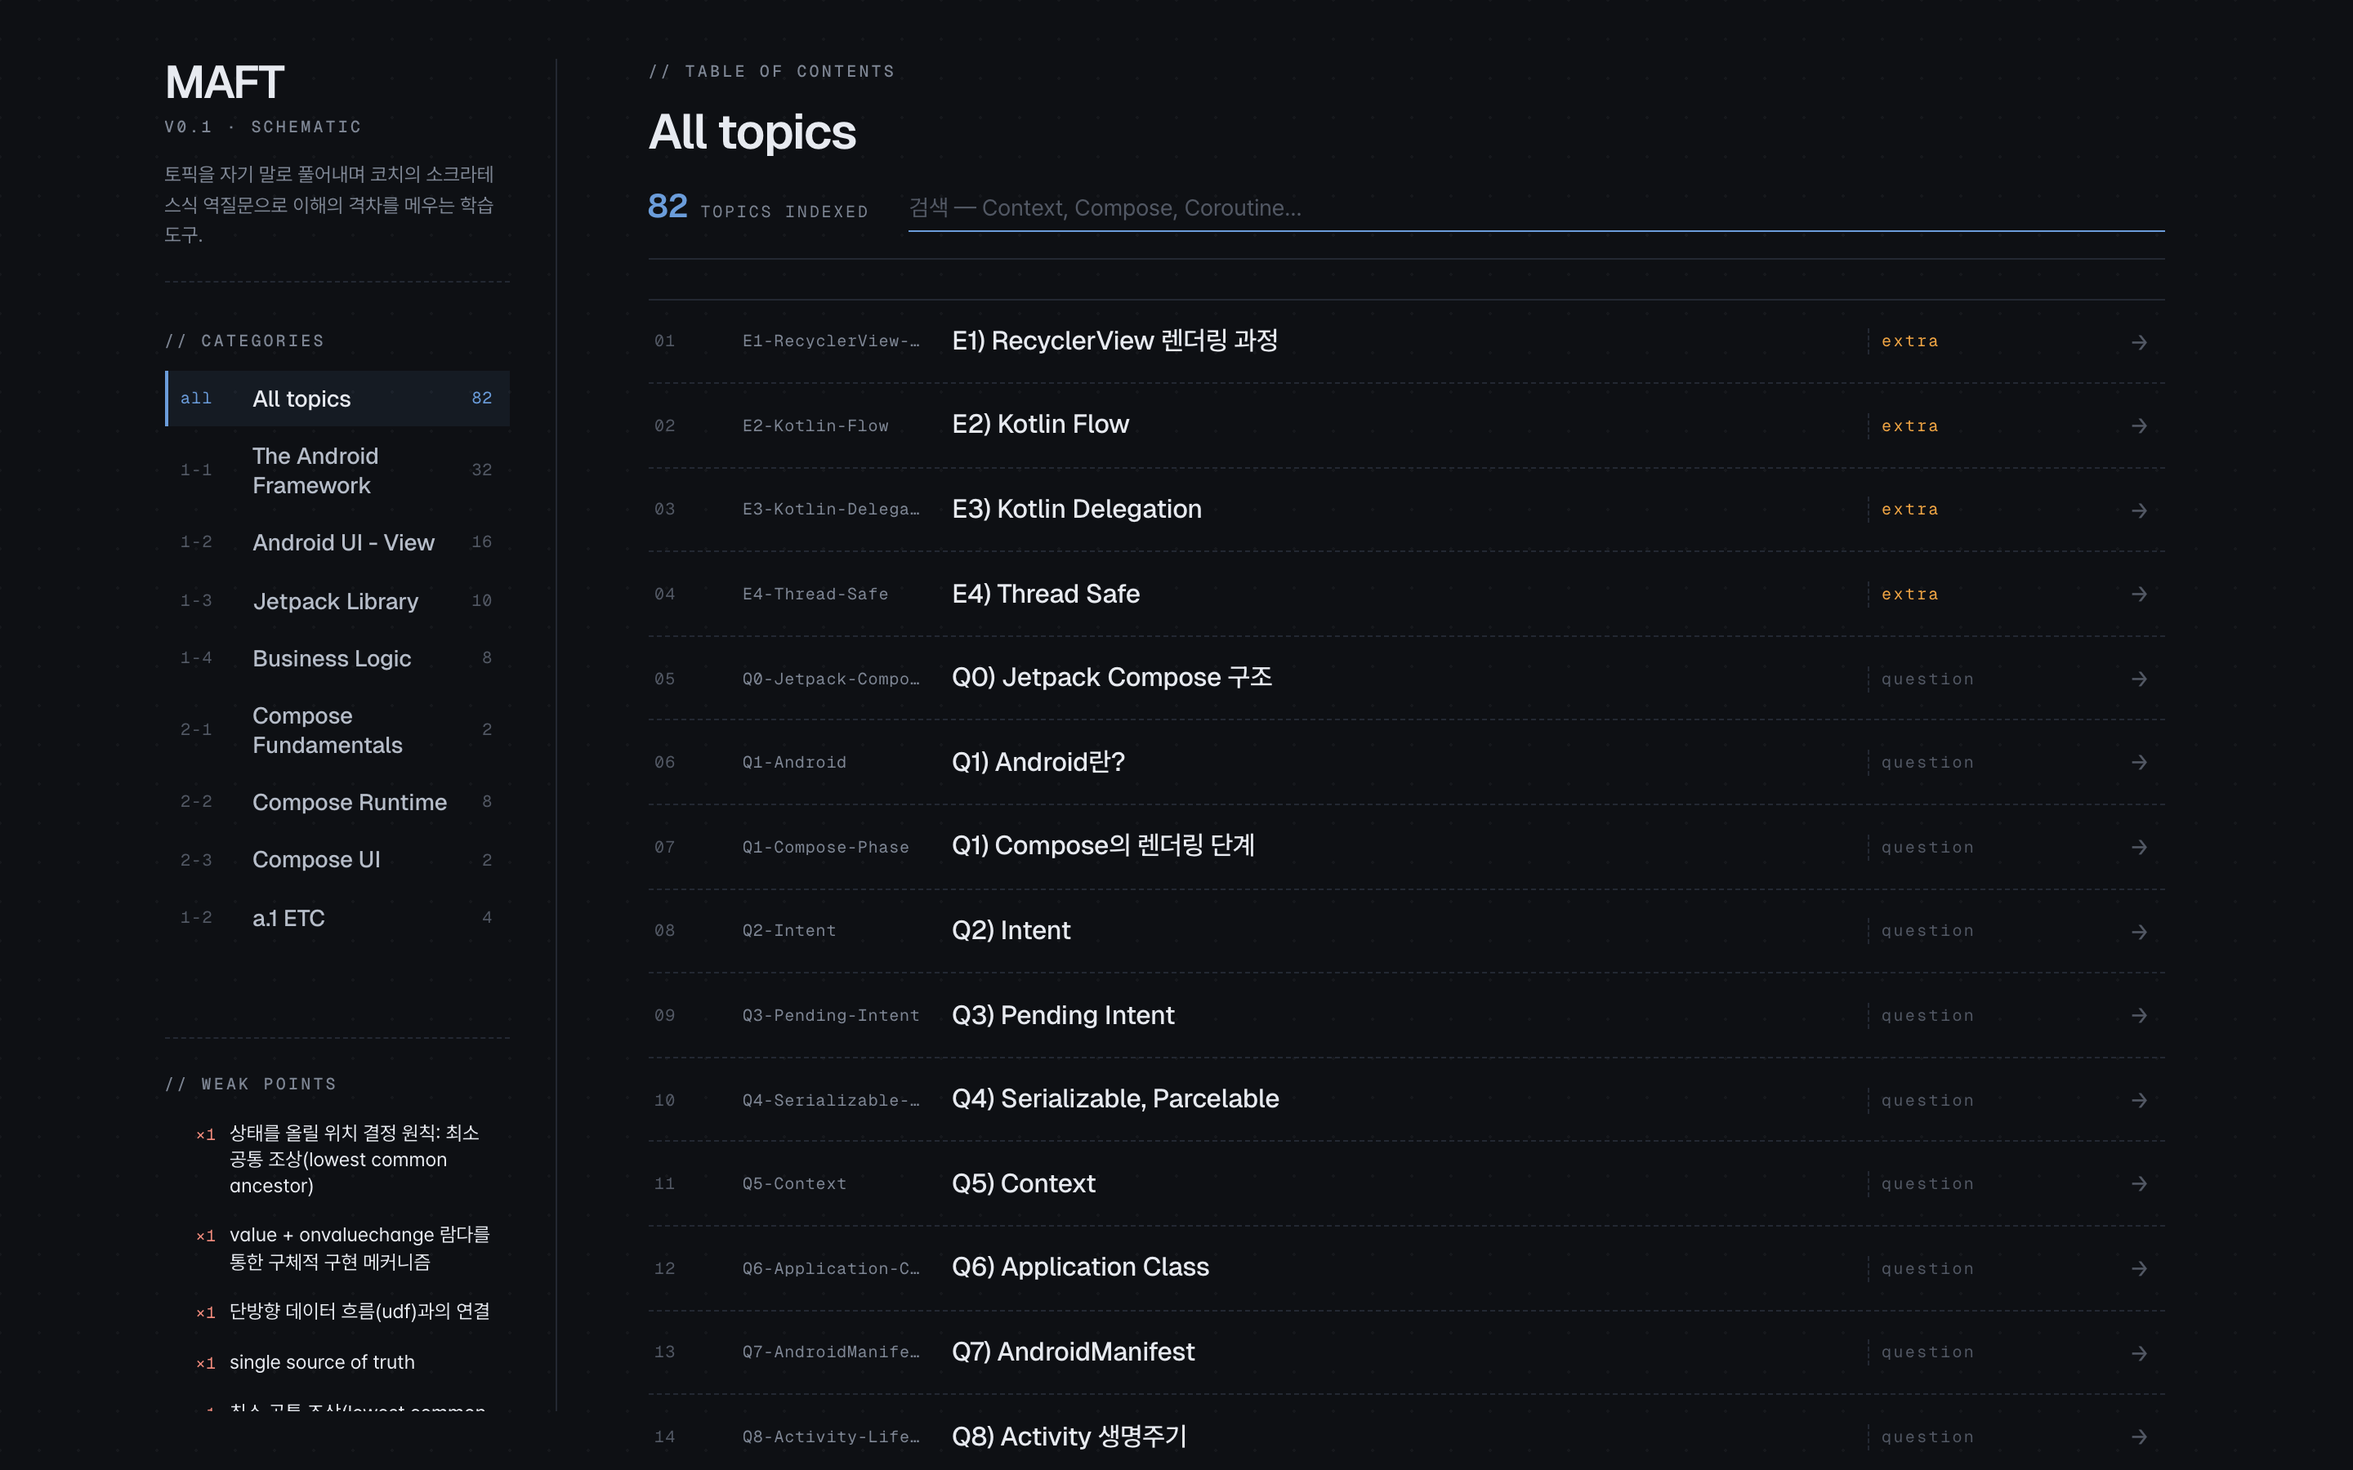
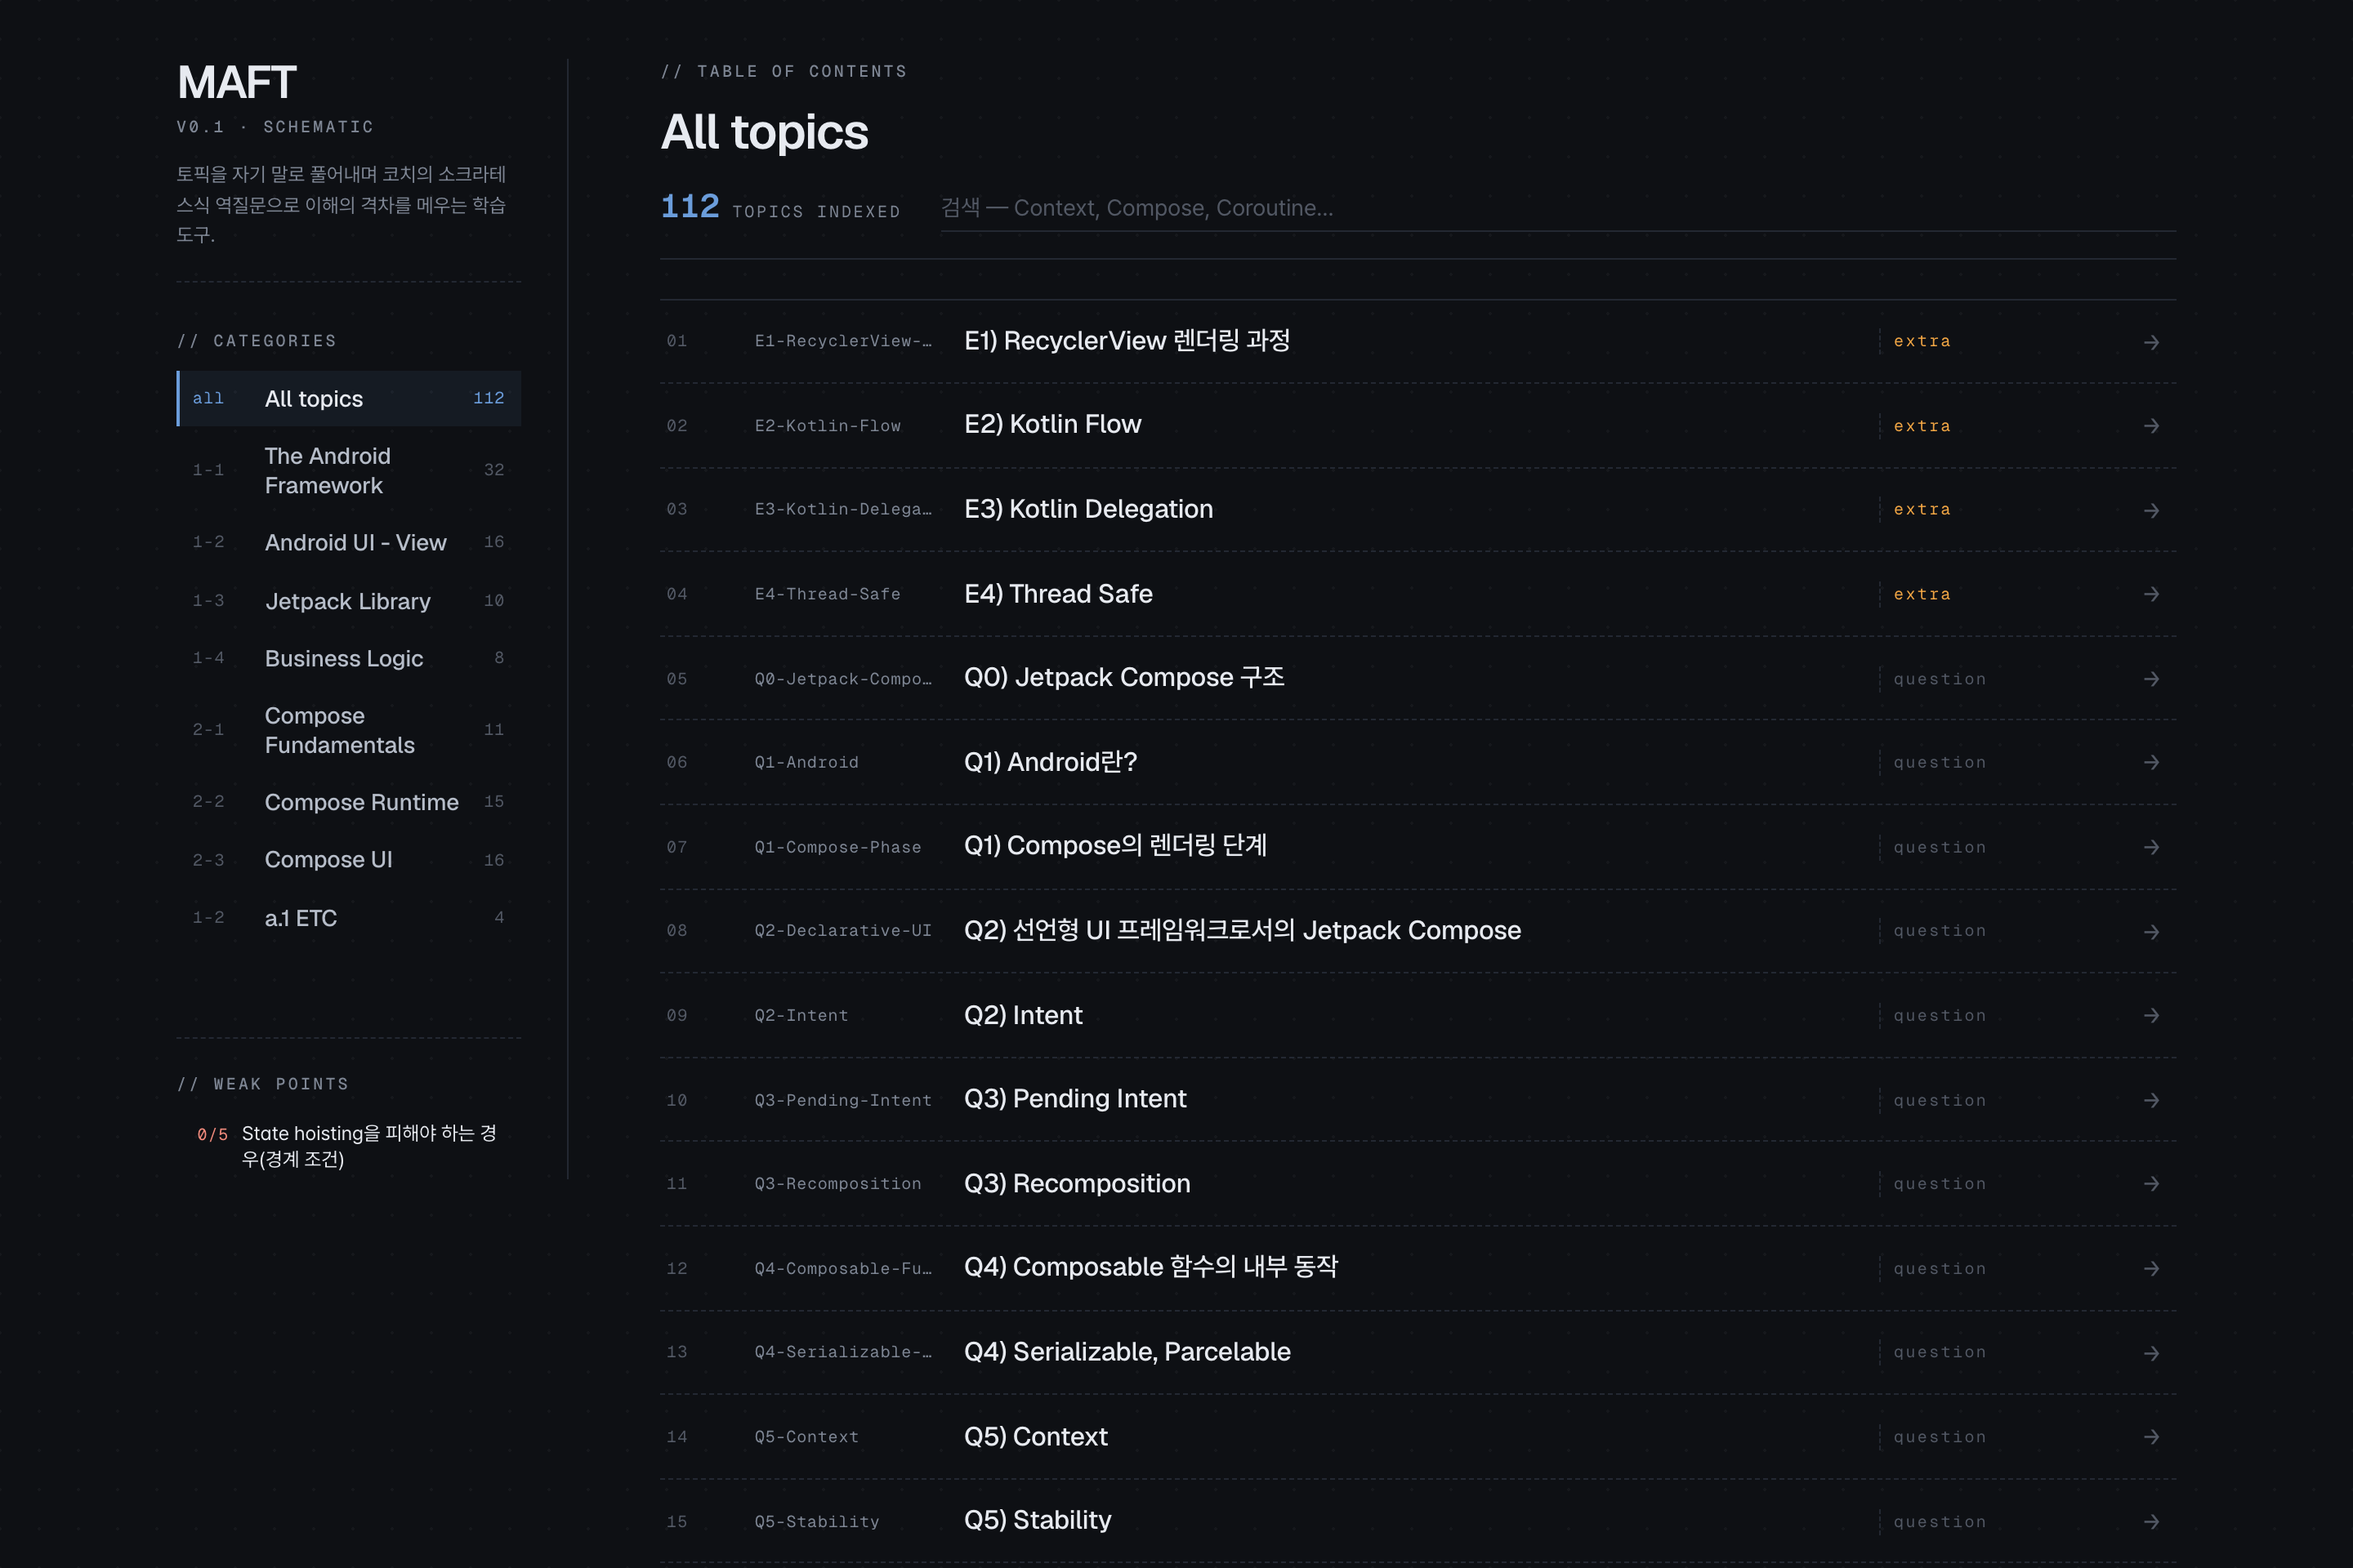
docs(readme): Tier 2 개념별 채점 구조 반영 + 스크린샷 갱신
데이터 모델 erDiagram·학습 사이클·핵심 설계 결정을 개념별 점수 모델에 맞춰 갱신하고, 화면 캡처 3종을 현재 UI(개념 체크리스트)로 교체.

diff --git a/README.md b/README.md
@@ -11,7 +11,7 @@
 **파인만 학습 기법**(자기 설명 → 평가 → 빈틈 역질문 → 재학습) 을 인터랙티브로 구현해 이해도가 일정 수준에 도달할 때까지 가르쳐 주는 학습 도구입니다.
 
 학습자가 토픽을 자기 말로 풀어내면, AI 코치가 토픽 원문을 기준으로 채점하고 학습자가 빠뜨린 핵심 개념을 가리키는 역질문을 돌려줍니다.
-모든 점수와 누적 약점이 SQLite 에 영속화되므로, 어떤 토픽을 얼마나 깊이 이해했는지가 인덱스와 사이드바에 그대로 드러납니다.
+토픽은 핵심 개념 3~5개로 분해되어 개념별 점수와 진척이 SQLite 에 영속화되므로, 어떤 개념을 얼마나 이해했는지가 체크리스트와 인덱스에 그대로 드러납니다.
 
 ## 화면
 
@@ -19,15 +19,15 @@
 
 ![](docs/img/index.png)
 
-학습 세션 — 점수 패널과 Recurring Gaps, 코치의 마스터 안내
+학습 세션 — 개념 체크리스트와 코치의 소크라테스식 역질문
 
 ![](docs/img/session.png)
 
-점수 패널 단독 — turns / latest / average / best + sparkline + recurring gaps
+개념 체크리스트 — 개념별 0~5 점수 · 상태 뱃지 · 통합 점수
 
 ![](docs/img/rubric.png)
 
-> 캡처는 `Q12-State-hoisting.md` 토픽으로 답변 3회를 진행해 mastered 도달까지 만든 시점입니다.
+> 캡처는 `Q12-State-hoisting.md` 토픽을 진행하던 시점입니다.
 
 ## 학습 사이클
 
@@ -42,18 +42,18 @@ sequenceDiagram
   U->>W: 토픽 선택
   W->>S: POST /api/sessions { topicId }
   S->>C: claude -p "학습 시작" --system-prompt 〈파인만 코치 + 토픽 원문〉
-  C-->>S: 세션 ID · 청자/범위 안내
-  S->>S: createSession · appendTurn(assistant)
-  S-->>W: { sessionId, message }
+  C-->>S: 청자/범위 안내 + 핵심 개념 목록 JSON
+  S->>S: extractConceptList · createSession (개념 영속화)
+  S-->>W: { sessionId, message, concepts }
 
-  loop 코칭 사이클 (mastered = true 까지)
+  loop 코칭 사이클 (모든 개념 + 통합 마스터까지)
     U->>W: 자기 설명 입력
     W->>S: POST /api/sessions/:id/messages
-    S->>C: claude -p --resume sessionId 〈+ 형식 reminder〉
-    C-->>S: 평가문 + 다음 질문 + JSON 채점 블록
-    S->>S: extractRubric · appendTurn · updateSessionMeta · recordMissedConcepts
-    S-->>W: { message, rubric, mastered }
-    W-->>U: 코치 메시지 · 점수 sparkline · 누적 약점
+    S->>C: claude -p --resume sessionId 〈+ 시스템 프롬프트 + 형식 reminder〉
+    C-->>S: 평가문 + 다음 질문 + 개념별 채점 JSON
+    S->>S: extractEvaluation · appendTurn · applyEvaluation (best_score 갱신)
+    S-->>W: { message, concepts, integrationScore, mastered }
+    W-->>U: 코치 메시지 · 개념 체크리스트
   end
 ```
 
@@ -89,37 +89,38 @@ flowchart LR
 
 ```mermaid
 erDiagram
+  sessions ||--o{ concepts : has
   sessions ||--o{ turns : has
   sessions {
     TEXT id PK
     TEXT topic_id
     INTEGER created_at
     INTEGER updated_at
-    INTEGER last_score
-    TEXT last_missed
-    TEXT last_next_focus
+    TEXT claude_session_id
+    TEXT next_focus
+    INTEGER integration_score
     INTEGER mastered
+  }
+  concepts {
+    TEXT session_id FK
+    TEXT concept_id PK
+    INTEGER ordinal
+    TEXT name
+    TEXT criterion
+    INTEGER best_score
   }
   turns {
     INTEGER id PK
     TEXT session_id FK
     TEXT role
     TEXT text
-    INTEGER score
-    TEXT missed_concepts
-    TEXT next_focus
-    INTEGER mastered
+    INTEGER turn_score
+    TEXT eval_json
     INTEGER ts
-  }
-  concept_misses {
-    TEXT topic_id PK
-    TEXT concept PK
-    INTEGER count
-    INTEGER last_seen_at
   }
 ```
 
-토픽별 통계(베스트 점수 · 시도 횟수 · 마스터 여부)는 `sessions` 테이블 위의 집계 쿼리로 도출합니다(별도 머터리얼라이즈 테이블 없음). 누적 약점은 평가 응답마다 `missed_concepts` 를 정규화(trim · lowercase) 후 `concept_misses` 에 UPSERT 합니다.
+채점 단위는 "턴"이 아니라 "개념"입니다. 매 평가 턴은 답변이 다룬 개념들의 `best_score` 를 끌어올리며(한 답변이 여러 개념을 동시에 갱신할 수 있음), 마스터(모든 개념 ≥3 + 통합 답변 ≥4)는 LLM 응답이 아니라 저장된 점수로 서버가 직접 판정합니다. 토픽별 진척률과 전역 약점(아직 3점 미만인 개념)은 `sessions`·`concepts` 위의 집계 쿼리로 도출합니다(별도 머터리얼라이즈 테이블 없음).
 
 ## 빠른 시작
 
@@ -165,10 +166,10 @@ open http://localhost:5173
 ## 핵심 설계 결정
 
 - **Claude Code headless 로 LLM 호출** — `claude -p` 서브프로세스를 spawn 하고 `--output-format json` 을 파싱합니다. `--bare` 옵션을 사용하지 않으면 OAuth(claude.ai 구독) 자격증명이 자동으로 적용되므로 별도 API 키 없이 구독 한도 내에서 동작합니다.
-- **시스템 프롬프트의 JSON 채점 블록 강제** — 모든 평가 응답 끝에 `{score, missed_concepts, next_focus, mastered}` JSON 블록을 코드블록으로 첨부하도록 강제하고, 후속 메시지마다 형식 reminder 를 자동으로 첨부합니다. 키 변형(`scores`, `missingConcepts` 등) 도 시스템 프롬프트에서 명시적으로 금지해 LLM 변동성을 흡수합니다.
+- **개념 단위 채점** — 토픽을 핵심 개념 3~5개로 분해하고, 학습 시작 시 코치가 개념 체크리스트를 JSON 으로 산출해 `concepts` 테이블에 영속화합니다. 이후 평가 턴마다 코치는 답변이 다룬 개념별 점수(`{scores, integration_score, next_focus, mastered}`)를 첨부하며, 한 답변이 여러 개념을 동시에 끌어올릴 수 있습니다. 키 변형 금지·형식 reminder 자동 첨부로 LLM 변동성을 흡수하고, 시작 시 개념 JSON 이 누락되면 1회 재시도합니다.
 - **점수 인플레이션 방지** — 같은 답변을 살짝 바꿔 재제출해도 새 정보가 없으면 점수가 오르지 않도록 시스템 프롬프트에 일관성 규칙을 두었습니다 (`score 2 → 2` 동결을 PoC 에서 확인했습니다).
 - **청자 재정의** — 일반적 파인만의 "12살 청자" 가정은 안드로이드 학습엔 부적합해 (Compose 가 무엇인지부터 풀어 설명할지 학습자가 혼란을 겪습니다), **"이 토픽은 처음 듣지만 4대 컴포넌트 · Compose Composable/State · Kotlin 기초는 아는 동료 개발자"** 로 재정의했습니다.
-- **SQLite 영속화 + 누적 약점 트래킹** — 매 메시지마다 turns 테이블에 incremental insert 하고, `missed_concepts` 를 `concept_misses` 에 UPSERT 로 누적해 사이드바 Top N Weak Points 로 노출합니다.
+- **SQLite 영속화 + 개념별 진척 추적** — 세션·개념·turns 를 SQLite 에 영속화하고, 개념별 `best_score` 로 진척을 추적해 사이드바 Weak Points(3점 미만 개념)와 인덱스 진척률(`n/N 개념`)로 노출합니다.
 
 ## 디렉토리
 
@@ -178,7 +179,7 @@ open http://localhost:5173
 │   ├── src/
 │   │   ├── claude.ts        headless 래퍼 (claude -p spawn)
 │   │   ├── topics.ts        mi.tree 정규식 파싱 · 토픽 인덱스
-│   │   ├── prompt.ts        파인만 시스템 프롬프트 + 채점 추출
+│   │   ├── prompt.ts        파인만 시스템 프롬프트 + 개념/채점 JSON 추출
 │   │   ├── routes.ts        REST API
 │   │   ├── sessions.ts      SQLite 세션 영속화
 │   │   ├── stats.ts         토픽 통계 + Weak Points 집계
@@ -190,7 +191,7 @@ open http://localhost:5173
     └── src/
         ├── App.tsx          토픽 인덱스 + Weak Points 사이드바
         ├── SessionView.tsx  학습 세션 화면 (Coach / Response 엔트리)
-        ├── ScorePanel.tsx   Figure 01 · Rubric (sparkline + recurring gaps)
+        ├── ScorePanel.tsx   Figure 01 · 개념 체크리스트 (점수·상태·통합)
         ├── api.ts           REST 클라이언트
         ├── App.css          Schematic Dark — layout / 세션
         └── index.css        디자인 토큰 + 진입 애니메이션
@@ -198,7 +199,7 @@ open http://localhost:5173
 
 ## 디자인 톤
 
-차분한 학습 환경을 의도해 **Schematic Dark** 톤으로 정리했습니다. Geist + Pretendard Variable, paper `#0e1014`, 강조색 blueprint `#6b9ddb`, 점수 팔레트 (moss / amber / sienna / slate) 로 구성되어 있습니다. 게임화는 인플레이션을 피하고자 차분한 배지 (`best 3/5 · ×2`, `★ mastered`) 와 작은 sparkline 막대만으로 한정합니다.
+차분한 학습 환경을 의도해 **Schematic Dark** 톤으로 정리했습니다. Geist + Pretendard Variable, paper `#0e1014`, 강조색 blueprint `#6b9ddb`, 점수 팔레트 (moss / amber / sienna / slate) 로 구성되어 있습니다. 게임화는 인플레이션을 피하고자 차분한 배지 (`3/4 개념`, `★ mastered`) 와 개념별 0~5 점수 미터만으로 한정합니다.
 
 ## 한계 / 다음 단계
 
